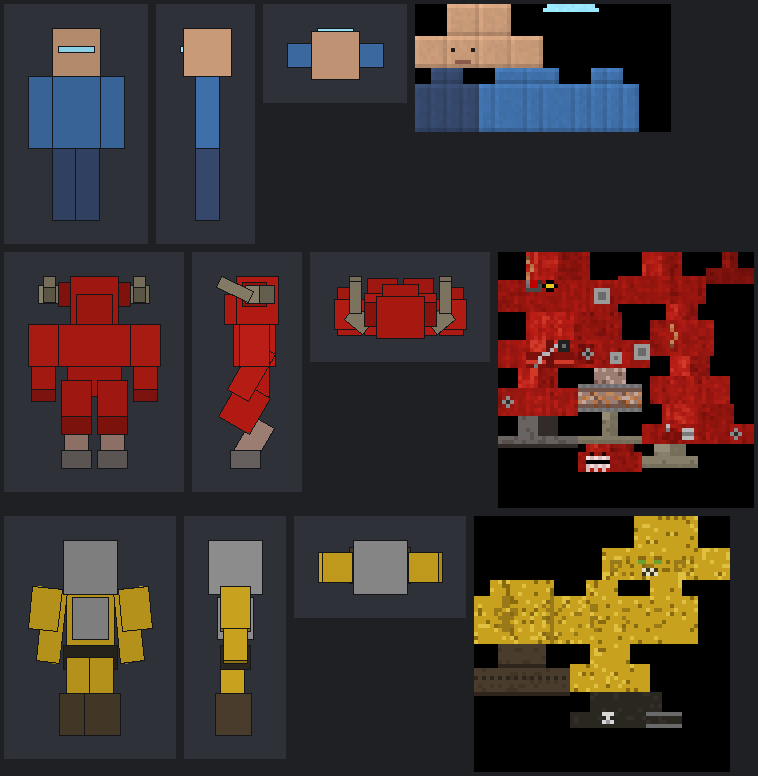
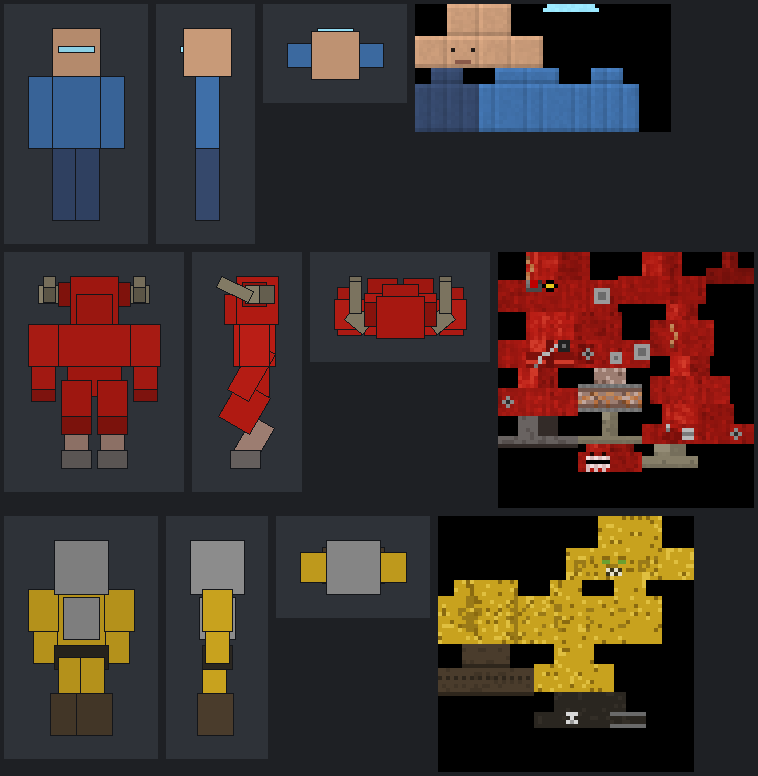
Revert super_mutant sleeve shift and arm splay (round 3)

Changed region(s): [[0.3945, 0.6495, 0.971, 1.0], [0.0303, 0.6804, 0.2124, 0.8969], [0.2427, 0.6804, 0.3641, 0.9588]]

diff --git a/tools/asset-gen/entity_models.py b/tools/asset-gen/entity_models.py
@@ -733,7 +733,7 @@ def super_mutant():
     corrected in round 2 against the orchestrator's comparison.
     Six biped parts at the vanilla pivots except the legs, which sit 1 unit higher (y 11). Head 8x8x8 with a separate
     0.5-inflated hat layer; torso 8x12x4 with 6x7x1 front and back plates and a 9x4x5 belt hanging to y 13; 4x12x4
-    arms (resting splayed 6 degrees) wearing 5x7x5 shoulder sleeves one unit further out; 4x12x4 legs wearing bulky
+    arms wearing 5x7x5 shoulder sleeves; 4x12x4 legs wearing bulky
     6x7x6 boots. Sheet 64x64, one pixel per model unit. The plate and hat boxes exist on every tier; Basic leaves
     them transparent, Heavy paints the plates, Elite adds a helmet on the hat layer and pauldrons on the sleeves.
     The skin is bare on every tier (no clothing): muscle lines, a dark loincloth band with a skull buckle, boots.
@@ -753,9 +753,9 @@ def super_mutant():
     b.box("belt", -4.5, 9, -2.5, 9, 4, 5, material="belt")
     for side, sx in (("r", -1), ("l", 1)):
         mir = side == "l"
-        arm = m.part("rightArm" if sx < 0 else "leftArm", pivot=(5 * sx, 2, 0), rotate=(0, 0, -6 * sx))
+        arm = m.part("rightArm" if sx < 0 else "leftArm", pivot=(5 * sx, 2, 0))
         arm.box("arm_" + side, -3 if sx < 0 else -1, -2, -2, 4, 12, 4, material="skin", mirror=mir, group="arm")
-        arm.box("sleeve_" + side, -4.9 if sx < 0 else -0.1, -2.2, -2.5, 5, 7, 5, material="sleeve", mirror=mir,
+        arm.box("sleeve_" + side, -3.9 if sx < 0 else -1.1, -2.2, -2.5, 5, 7, 5, material="sleeve", mirror=mir,
                 group="sleeve")
     for side, sx in (("r", -1), ("l", 1)):
         mir = side == "l"

diff --git a/src/test/java/com/gregguns/mob/model/SuperMutantModelTest.java b/src/test/java/com/gregguns/mob/model/SuperMutantModelTest.java
@@ -79,11 +79,11 @@ class SuperMutantModelTest {
 
     @Test
     void widthAcrossSleeves() {
-        // round 2: sleeves one unit further out, pivot 5 + 4.9 = 9.9 on each side (arms rest splayed 6 degrees)
+        // sleeve outer edge: pivot 5 + offset 3.9 = 8.9 on each side
         float right = part("rightArm").pivot()[0] + box("rightArm", "sleeve_r").offset()[0];
         float left = part("leftArm").pivot()[0] + box("leftArm", "sleeve_l").offset()[0]
             + box("leftArm", "sleeve_l").size()[0];
-        assertEquals(19.8F, left - right, 0.001F);
+        assertEquals(17.8F, left - right, 0.001F);
         // head top -8, boot soles 11 + 6 + 7 = 24
         assertEquals(
             24F,
@@ -101,9 +101,9 @@ class SuperMutantModelTest {
     }
 
     @Test
-    void armsRestSplayed() {
-        assertEquals(6F, part("rightArm").rotateDegrees()[2], 0.001F);
-        assertEquals(-6F, part("leftArm").rotateDegrees()[2], 0.001F);
+    void armsRestStraight() {
+        assertEquals(0F, part("rightArm").rotateDegrees()[2], 0.001F);
+        assertEquals(0F, part("leftArm").rotateDegrees()[2], 0.001F);
     }
 
     @Test
